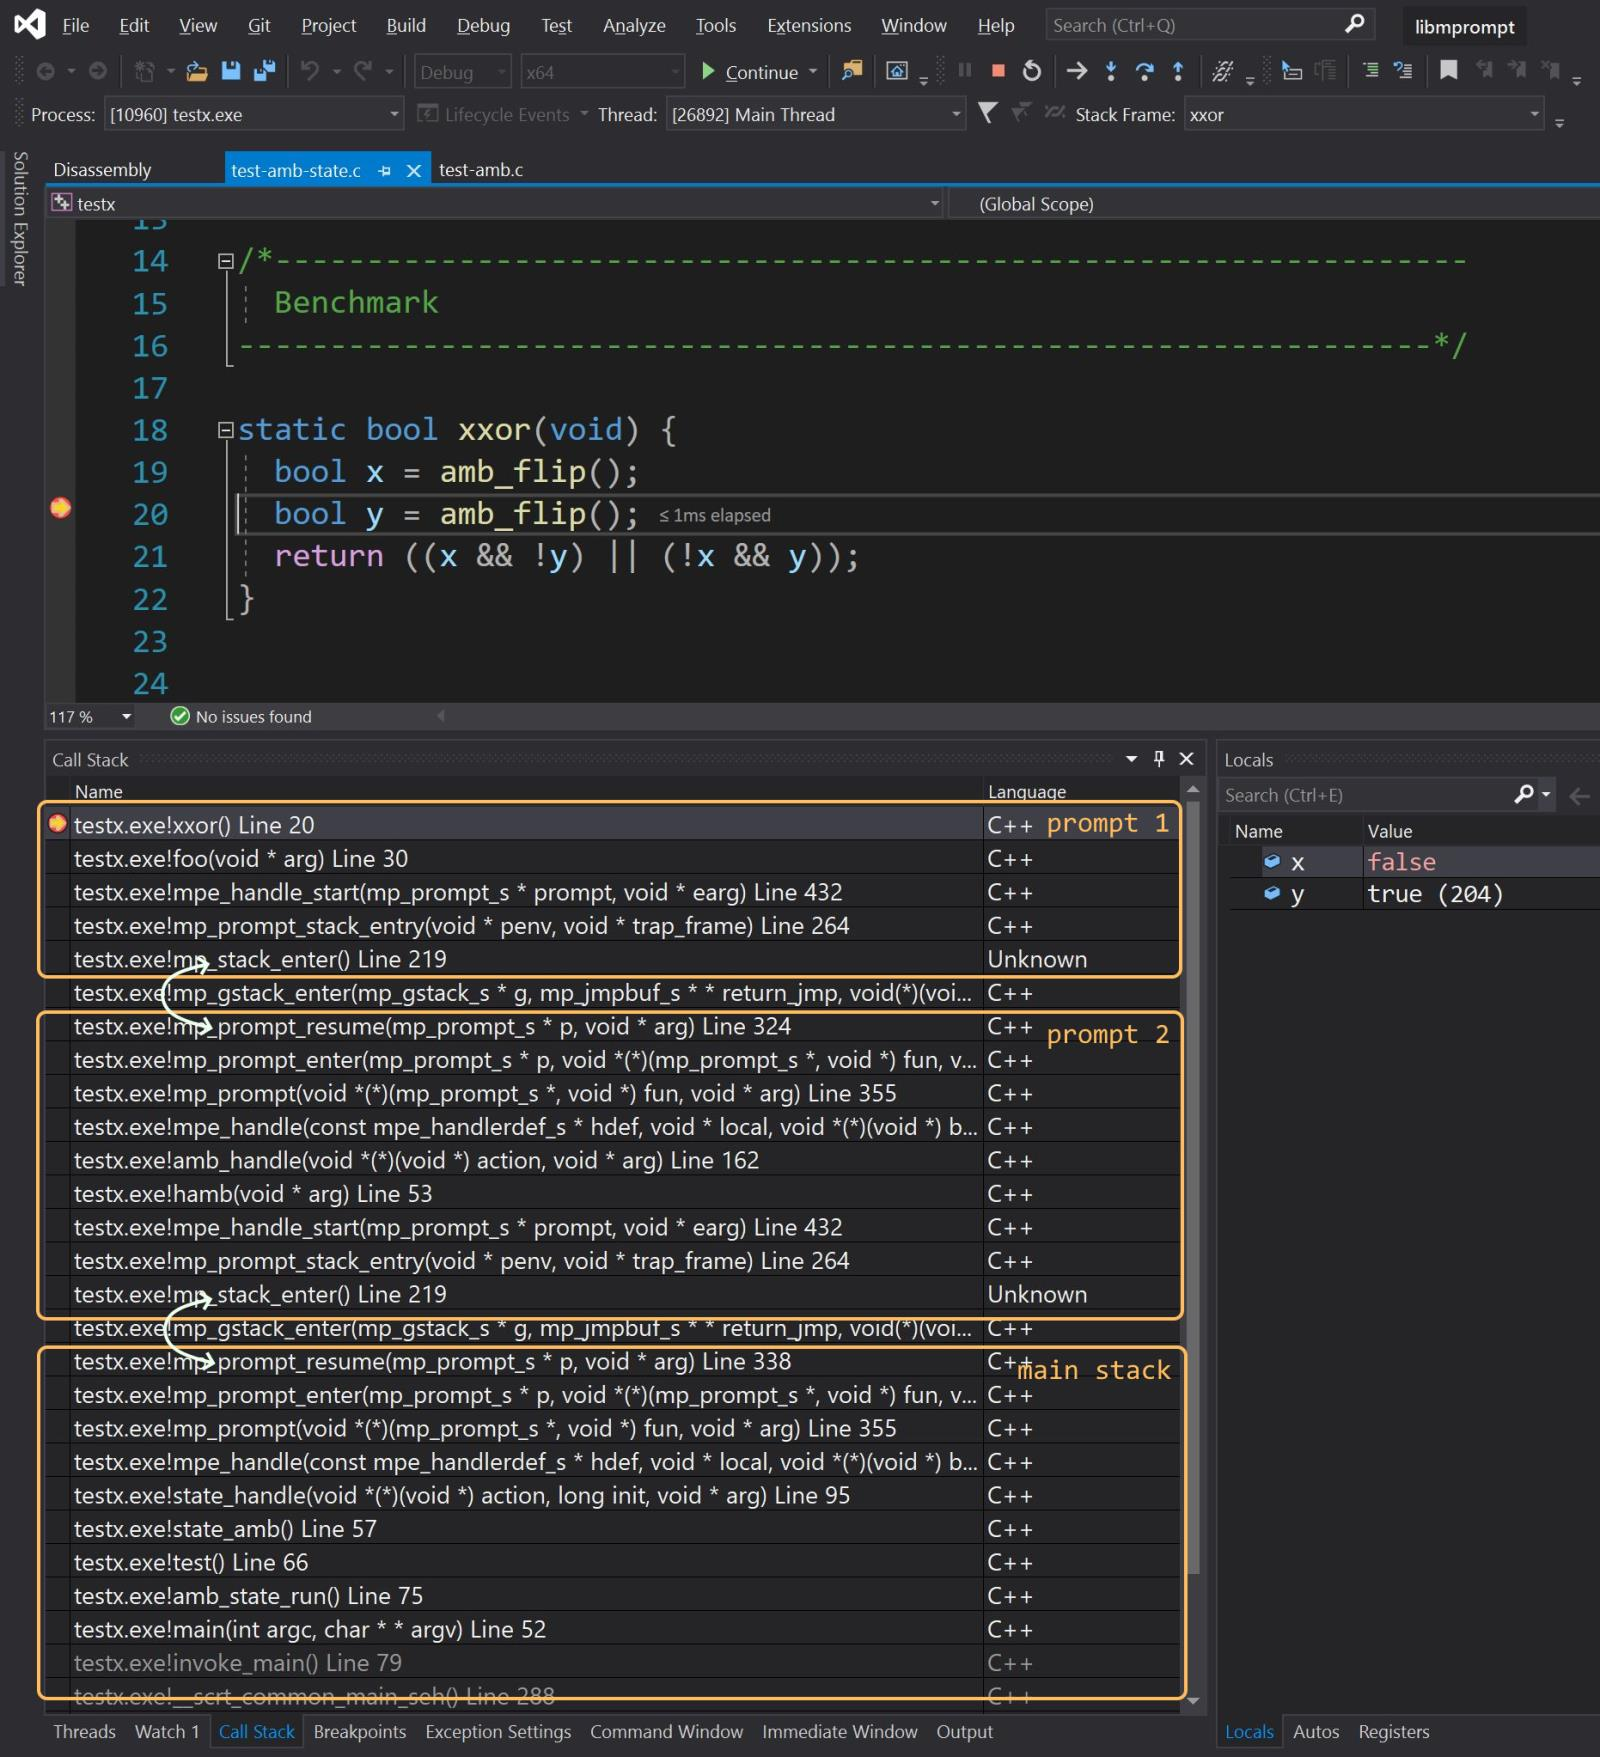
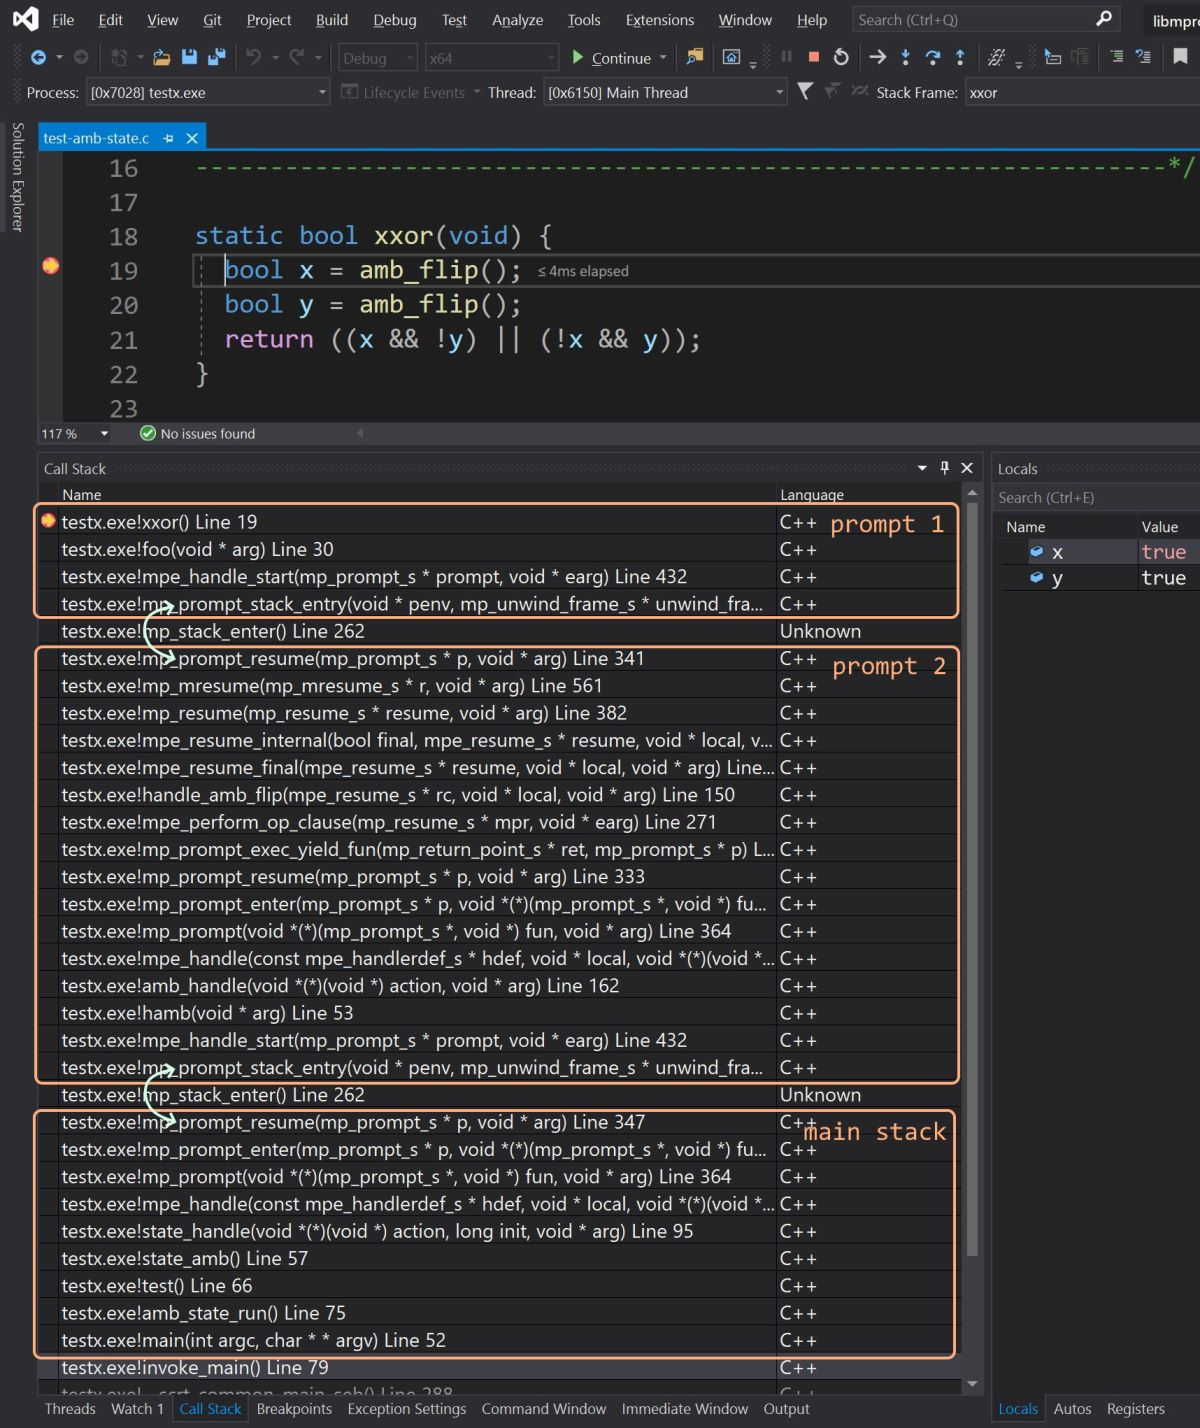
improve backtraces on windows

Changed region(s): [[0.0, 0.0, 1.0, 1.0], [0.925, 0.986, 0.9558, 1.0], [0.0308, 0.1849, 0.0617, 0.2157]]

diff --git a/include/internal/atomic.h b/include/internal/atomic.h
@@ -35,6 +35,7 @@
 #define mp_atomic_cas(p,expected,desired)        mp_atomic(compare_exchange_strong)(p,expected,desired)
 #define mp_atomic_load(p)                        mp_atomic(load)(p)
 #define mp_atomic_store(p,x)                     mp_atomic(store)(p,x)
+#define mp_atomic_add(p,x)                       mp_atomic(fetch_add)(p,x)
 
 static inline void mp_atomic_yield(void);
 
@@ -68,8 +69,8 @@ typedef LONG     msc_intptr_t;
 #define MI_64(f) f
 #endif
 
-static inline bool mp_msvc_atomic_compare_exchange_strong(_Atomic(uintptr_t)*p, uintptr_t* expected, uintptr_t desired) {
-  uintptr_t read = (uintptr_t)MI_64(_InterlockedCompareExchange)((volatile msc_intptr_t*)p, (msc_intptr_t)desired, (msc_intptr_t)(*expected));
+static inline bool mp_msvc_atomic_compare_exchange_strong(_Atomic(intptr_t)*p, intptr_t* expected, intptr_t desired) {
+  intptr_t read = (intptr_t)MI_64(_InterlockedCompareExchange)((volatile msc_intptr_t*)p, (msc_intptr_t)desired, (msc_intptr_t)(*expected));
   if (read == *expected) {
     return true;
   }
@@ -79,11 +80,11 @@ static inline bool mp_msvc_atomic_compare_exchange_strong(_Atomic(uintptr_t)*p, 
   }
 }
 
-static inline uintptr_t mp_msvc_atomic_exchange(_Atomic(uintptr_t)*p, uintptr_t exchange) {
-  return (uintptr_t)MI_64(_InterlockedExchange)((volatile msc_intptr_t*)p, (msc_intptr_t)exchange);
+static inline intptr_t mp_msvc_atomic_exchange(_Atomic(intptr_t)*p, intptr_t exchange) {
+  return (intptr_t)MI_64(_InterlockedExchange)((volatile msc_intptr_t*)p, (msc_intptr_t)exchange);
 }
 
-static inline uintptr_t mp_msvc_atomic_load(_Atomic(uintptr_t) const* p) {
+static inline intptr_t mp_msvc_atomic_load(_Atomic(intptr_t) const* p) {
   #if defined(_M_IX86) || defined(_M_X64)
     return *p;
   #else
@@ -93,7 +94,7 @@ static inline uintptr_t mp_msvc_atomic_load(_Atomic(uintptr_t) const* p) {
   #endif
 }
 
-static inline void mp_msvc_atomic_store(_Atomic(uintptr_t)*p, uintptr_t x) {
+static inline void mp_msvc_atomic_store(_Atomic(intptr_t)*p, intptr_t x) {
   #if defined(_M_IX86) || defined(_M_X64)
     *p = x;
   #else
@@ -101,6 +102,11 @@ static inline void mp_msvc_atomic_store(_Atomic(uintptr_t)*p, uintptr_t x) {
   #endif
 }
 
+static inline intptr_t mp_msvc_atomic_add(_Atomic(intptr_t)*p, intptr_t x) {
+  return (intptr_t)MI_64(InterlockedAdd)((volatile msc_intptr_t*)p, (msc_intptr_t)x);
+}
+
+// ptr variants
 #define mp_atomic_load_ptr(tp,p)                (tp*)mp_atomic_load((_Atomic(uintptr_t)*)(p))
 #define mp_atomic_store_ptr(tp,p,x)             mp_atomic_store((_Atomic(uintptr_t)*)(p),(uintptr_t)x)
 #define mp_atomic_cas_ptr(tp,p,exp,des)         mp_atomic_cas((_Atomic(uintptr_t)*)(p),(uintptr_t*)exp,(uintptr_t)des)

diff --git a/src/mprompt/gstack_win.c b/src/mprompt/gstack_win.c
@@ -10,7 +10,7 @@
 -----------------------------------------------------------------------------*/
 #include <windows.h>
 #include <fibersapi.h>           // needed for thread termination <https://devblogs.microsoft.com/oldnewthing/20191011-00/?p=102989>
-
+#include "internal/atomic.h"
 
 // -----------------------------------------------------
 // Interface
@@ -24,15 +24,29 @@ static const char* mp_system_error_message(int errno, const char* fmt, ...);
 
 // Reserve memory
 // we use a hint address in windows to try to stay under the system stack for better backtraces
-static uint8_t* mp_os_reserve_hint = (uint8_t*)(32 * MP_GIB);
+static _Atomic(ssize_t) mp_os_reserve_hint;
 
 static uint8_t* mp_os_mem_reserve(ssize_t size) {
   uint8_t* p = NULL;
-  if (mp_os_reserve_hint != NULL) {  
-    uint8_t* hint = mp_os_reserve_hint;
-    mp_os_reserve_hint += mp_align_up(size, MP_MIB); // data race ok as it is just a hint
-    p = (uint8_t*)VirtualAlloc(mp_os_reserve_hint, size, MEM_RESERVE, PAGE_NOACCESS);    
+  ssize_t rsize = mp_align_up(size, 64 * MP_KIB);  
+  ssize_t hint  = mp_atomic_load(&mp_os_reserve_hint);
+  // initialize
+  if (hint == 0) {
+    hint = (ssize_t)&hint - 64 * MP_MIB;  // place lower as the system stack (and use ASLR from the stack)
+    hint = mp_align_down(hint, 64 * MP_KIB);
+    ssize_t expected = 0;
+    if (!mp_atomic_cas(&mp_os_reserve_hint, &expected, hint)) { 
+      hint = expected;
+    }
   }
+  // try placing under the system stack (for better backtraces)
+  if (hint > rsize && hint > MP_GIB) {  
+    ssize_t hint = mp_atomic_add(&mp_os_reserve_hint, -rsize) - rsize;      // race is ok, it is just a hint
+    if (hint > 0) {
+      p = (uint8_t*)VirtualAlloc((void*)hint, size, MEM_RESERVE, PAGE_NOACCESS);
+    }
+  }
+  // otherwise allocation determined by OS
   if (p == NULL) {
     p = (uint8_t*)VirtualAlloc(NULL, size, MEM_RESERVE, PAGE_NOACCESS);
   }

diff --git a/test/main.c b/test/main.c
@@ -25,7 +25,7 @@ int main(int argc, char** argv) {
   printf("main\n");
   
   mp_config_t config = { };
-  config.gpool_enable = true;
+  //config.gpool_enable = true;
   //config.stack_max_size = 1 * 1024 * 1024L;
   //config.stack_initial_commit = 64 * 1024L;   // use when debugging with lldb on macOS
   //config.stack_cache_count = -1;
@@ -49,10 +49,12 @@ int main(int argc, char** argv) {
   // multi-shot tests
   amb_run();
   amb_state_run();
-  nqueens_run();  
+  nqueens_run();    
+  
+  // direct mprompt tests
+  //mp_async_test1M();  // async workers
 
   // low-level mprompt tests
-  //mp_async_test1M();  // async workers
   //mp_test1()
   //mp_test2();
   //mp_test1M();
